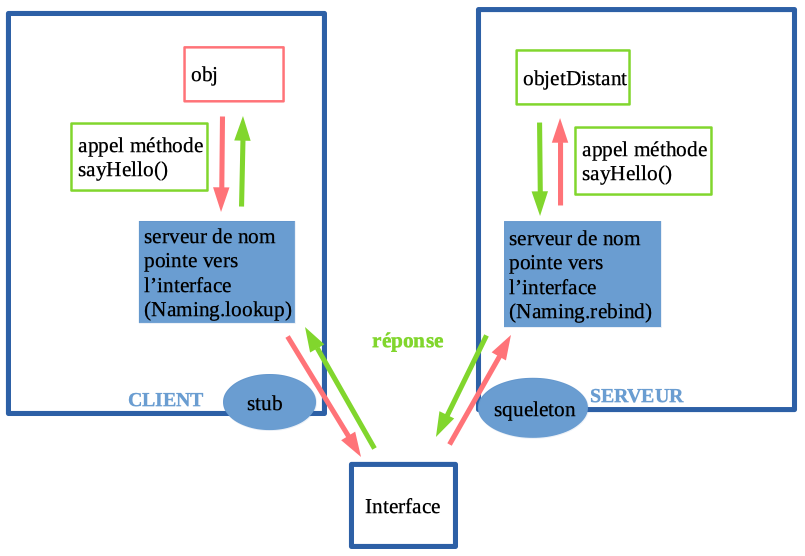
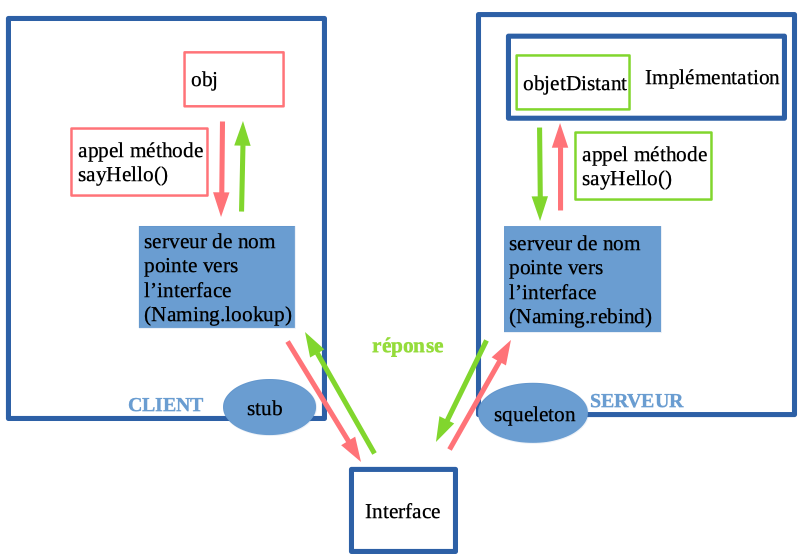
x

diff --git a/java.html b/java.html
@@ -166,6 +166,29 @@ System.out.println(formattage.format(date.getTime()));</code></pre>
     }
 }</code></pre>
 
+        <p>On peut également obtenir le même résultat sans la classe <em>Timer</em> utilisant un thread.</p>
+
+        <pre><code class="language-javascript">public class Principale {
+    public static void main(String[] args) {
+        Action t = new Action();
+        t.start();
+    }
+}</code></pre>
+
+        <p>et la tâche à effectuer plusieurs fois :</p>
+        <pre><code class="language-javascript">public class TimeThread extends Thread {
+    public void run(){
+        for(int i=0; i<10; i++) { // 10 répétitions
+            try {
+                Thread.sleep(2000); // toutes les 2000 ms
+                System.out.println("hello world");
+            } catch (Exception e) {
+                e.printStackTrace();
+            }
+        }
+    }
+}</code></pre>
+
     </div>
 
 
@@ -514,11 +537,11 @@ import java.net.*;</code></pre>
 
     <p>La machine virtuelle Java ferme les sockets non utilisés à la fin de l'exécution du programme. Toutefois, le nombre de sockets ouvertes par un programme est limité, ce qui conduit à des erreurs quand cette limite est atteinte. La méthode close() permet de fermer la connexion.</p>
 
-        <p><em>Transmission d'une chaîne de caractères :</em></p>
+        <h4>Exemple de transmission d'une chaîne de caractères :</h4>
 
         <p>Il n'est pas nécessaire de transmettre la taille des String avec le message lorsqu'on utilise les méthodes writeUTF() et readUTF() qui détectent automatiquement la taille des String dans un flux. La quantité d'information transmise est donnée par message.length() si on note message la variable représentant le message reçu.</p>
 
-        <p>Côté serveur</p>
+        <p><em>Côté serveur</em></p>
 
         <pre><code class="language-javascript">public class ServeurTCP {
 
@@ -543,7 +566,7 @@ import java.net.*;</code></pre>
     }
 }</code></pre>
 
-        <p>Côté client</p>
+        <p><em>Côté client</em></p>
 
         <pre><code class="language-javascript">public class ClientTCP {
 
@@ -565,9 +588,9 @@ import java.net.*;</code></pre>
     }
 }</code></pre>
 
-        <p><em>Transmission d'un entier :</em></p>
+        <h4>Exemple de transmission d'un entier :</h4>
 
-        <p>Côté serveur  </p>
+        <p><em>Côté serveur</em>  </p>
 
         <pre><code class="language-javascript">public class ServeurTCP {
 
@@ -588,7 +611,7 @@ import java.net.*;</code></pre>
     }
 }</code></pre>
 
-        <p>Côté client </p>
+        <p><em>Côté client</em> </p>
 
         <pre><code class="language-javascript">public class ClientTCP {
 
@@ -607,9 +630,9 @@ import java.net.*;</code></pre>
     }
 }</code></pre>
 
-        <p><em>Transmission d'un objet :</em></p>
+        <h4>Exemple de transmission d'un objet :</h4>
 
-        <p>Côté serveur </p>
+        <p><em>Côté serveur</em> </p>
 
         <pre><code class="language-javascript">public class ServeurTCP {
 
@@ -638,7 +661,7 @@ import java.net.*;</code></pre>
     }
 }</code></pre>
 
-        <p>Côté client</p>
+        <p><em>Côté client</em></p>
 
         <pre><code class="language-javascript">public class ClientTCP {
 
@@ -682,11 +705,11 @@ import java.net.*;</code></pre>
     }
 }</code></pre>
 
-        <p><em>Serveur connecté à plusieurs clients :</em></p>
+        <h4>Exemple de serveur connecté à plusieurs clients :</h4>
 
         <p>Le serveur ne traite qu'un seul client à la fois. Si ce traitement prend du temps, les autres clients peuvent être bloqués. Pour éviter ce problème, la gestion des connexions peut être pilotée par des threads. On privilégie alors le pool de threads à la création dynamique de threads par souci de performance car dans ce dernier cas, il est possible de créer une infinité de threads ou encore de créer et détruire un thread à chaque nouvelle connexion.</p>
 
-        <p>Côté serveur</p>
+        <p><em>Côté serveur</em></p>
 
         <p>Le serveur commence par créer un ensemble de threads en attente de recevoir une demande de connexion. Lorsqu'un client demande une connexion, elle est prise en charge par un des threads.</p>
 
@@ -730,7 +753,7 @@ public class ServeurTCP {
     }
 }</code></pre>
 
-        <p>Côté client</p>
+        <p><em>Côté client</em></p>
         <pre><code class="language-javascript">public class ClientTCP {
 
     public static void main(String[] args) {
@@ -756,9 +779,9 @@ public class ServeurTCP {
     <fieldset><legend>IMPORTANT</legend><p>En mode non connecté, le programme récepteur doit être lancé en premier.</p></fieldset>
 
 
-        <p><em>Transmission d'une chaîne de caractères :</em></p>
+        <h4>Exemple de transmission d'une chaîne de caractères :</em></h4>
 
-    <p>Côté serveur </p>
+        <p><em>Côté serveur</em> </p>
 
 <pre><code class="language-javascript">public class ServerUDP {
 
@@ -782,7 +805,7 @@ public class ServeurTCP {
     }
 }</code></pre>
 
-    <p>Côté client </p>
+        <p><em>Côté client </em></p>
 
     <pre><code class="language-javascript">public class ClientUDP {
 
@@ -806,9 +829,9 @@ public class ServeurTCP {
     }
 }</code></pre>
 
-        <p><em>Transmission d'un entier :</em></p>
+        <h4>Exemple de transmission d'un entier :</h4>
 
-    <p>Côté serveur </p>
+        <p><em>Côté serveur</em> </p>
 
 <pre><code class="language-javascript">public class ServerUDP {
 
@@ -829,7 +852,7 @@ public class ServeurTCP {
     }
 }</code></pre>
 
-    <p>Côté client </p>
+        <p><em>Côté client</em> </p>
 
 <pre><code class="language-javascript">public class ClientUDP {
 
@@ -860,7 +883,7 @@ public class ServeurTCP {
 
     <div id="mecanismermi_cache" style="display:none;">
 
-    <p>Le RMI permet d'appeler du code à distance, en créant un objet distant sur une machine serveur. Cette technique offre pour avantages de mettre à jour le client de manière transparente et de masquer l'exécution distante du code tout en travaillant comme si l'exécution était locale.</p>
+    <p>Le RMI permet d'appeler du code à distance, en créant un objet distant sur une machine serveur. Notons que l'appel à distance est bloquant. Cette technique offre pour avantages de mettre à jour le client de manière transparente et de masquer l'exécution distante du code tout en travaillant comme si l'exécution était locale.</p>
 
         <pre><code class="language-javascript">import java.rmi.*;
 import java.rmi.server.*;
@@ -870,7 +893,7 @@ import java.net.*;</code></pre>
 
         <h4>Fonctionnement d'une communication par RMI</h4>
 
-        <p>Le client utilise une représentation locale de l'objet distant appelée <em>stub</em>, qui utilise elle-même une représentation distante appelée <em>skeleton</em>. Le client utilise alors ce <em>stub</em> comme si l'objet distant était local. Ainsi, le <em>stub</em> sert de lien côté client avec l'interface alors que le <em>skeleton</em> sert de lien côté serveur avec l'interface. Ils sont transparents pour le programmeur car ils n'apparaissent pas dans les différentes classes. En revanche, ils utilisent un serveur de nom Le registry qui définit les liens entre <em>stub</em> et <em>skeleton</em> est créé en ligne de commande par l'instruction rmiregistry.</p>
+        <p>Le client utilise une représentation locale de l'objet distant appelée <em>stub</em>, qui utilise elle-même une représentation distante appelée <em>skeleton</em>. Le client utilise alors ce <em>stub</em> comme si l'objet distant était local. Ainsi, le <em>stub</em> sert de lien côté client avec l'interface alors que le <em>skeleton</em> sert de lien côté serveur avec l'interface. Ils sont transparents pour le programmeur car ils n'apparaissent pas dans les différentes classes. En revanche, ils utilisent un serveur de nom, le <em>registry</em>, qui définit les liens entre <em>stub</em> et <em>skeleton</em>. Le <em>registry</em> est créé en ligne de commande par l'instruction <em>rmiregistry</em>.</p>
 
         <p>Une communication par RMI est structurée de la façon suivante :</p>
         <ul>
@@ -880,9 +903,14 @@ import java.net.*;</code></pre>
             <li>une classe Client contenant le <em>stub</em></li>
         </ul>
 
-        <img src="skeleton.png" width="300" height="250">
+        <div class="bloc">
+            <div class="gauche"><img src="skeleton.png" width="300" height="250"></div>
+            <div class="droite"><img src="rmi.png" width="500" height="400"></div>
+        </div>
 
         <h4>Exemple de communication par RMI</h4>
+
+        <p>On présente ici une procédure où le client affiche <em>Hello Mike</em> en utilisant la procédure <em>sayHello</em> présente sur le serveur.</p>
 
     <p>L'interface est l'entité partagée par le client et le serveur, donc présente des deux côtés.</p>
 
@@ -942,15 +970,12 @@ import java.net.*;</code></pre>
     }
 }</code></pre>
 
-        <img src="rmi.png" width="500" height="400">
-
-        <p>Le détail de la structure du code est la suivante : le client est lié au serveur de noms par l'instruction <em>Naming.lookup</em> qui pointe vers l'adresse de l'interface <em>Hello</em>. L'objet client obj étant de type Hello peut utiliser la méthode <em>sayHello</em>, mais cette méthode n'est définie qu'au niveau de l'implémentation. Le lien entre le <em>stub</em> etle <em>skeleton</em> permet d'associer obj à objetDistant par le biais de l'interface et l'instuction <em>Naming.rebind</em>. </p>
-
         <fieldset><legend>ATTENTION</legend><p>Lors d'un appel distant les paramètres, les valeurs de retour et les exceptions sont transmis par copie et doivent donc être sérialisables. Or les types primitifs et les objets distants le sont par défaut. En revanche, les types créés ne sont pas sérialisables mais peuvent le devenir si les classes correspondantes implémentent l'interface Serializable.</p></fieldset>
 
+        <p>Si les objets distants attendent la connexion en permanence, les ressources mémoire sont monopolisées inutilement. Pour cette raison, on préfère créer des objets distants activables. L'utilisation de la classe UnicastRemoteObjetct est réservée au développement d'objets distants temporaires.</p>
     <p>Notons que l'application cliente devra également gérer la synchronisation des appels à distance à l'aide de threads pour éviter le blocage du système.</p>
 
-<h4>Exemple d'une boite de messagerie :</h4>
+<h4>Exemple d'une boite de messagerie</h4>
 
         <p>le client peut déposer un message après s'être inscrit et consulter son message.</p>
 
